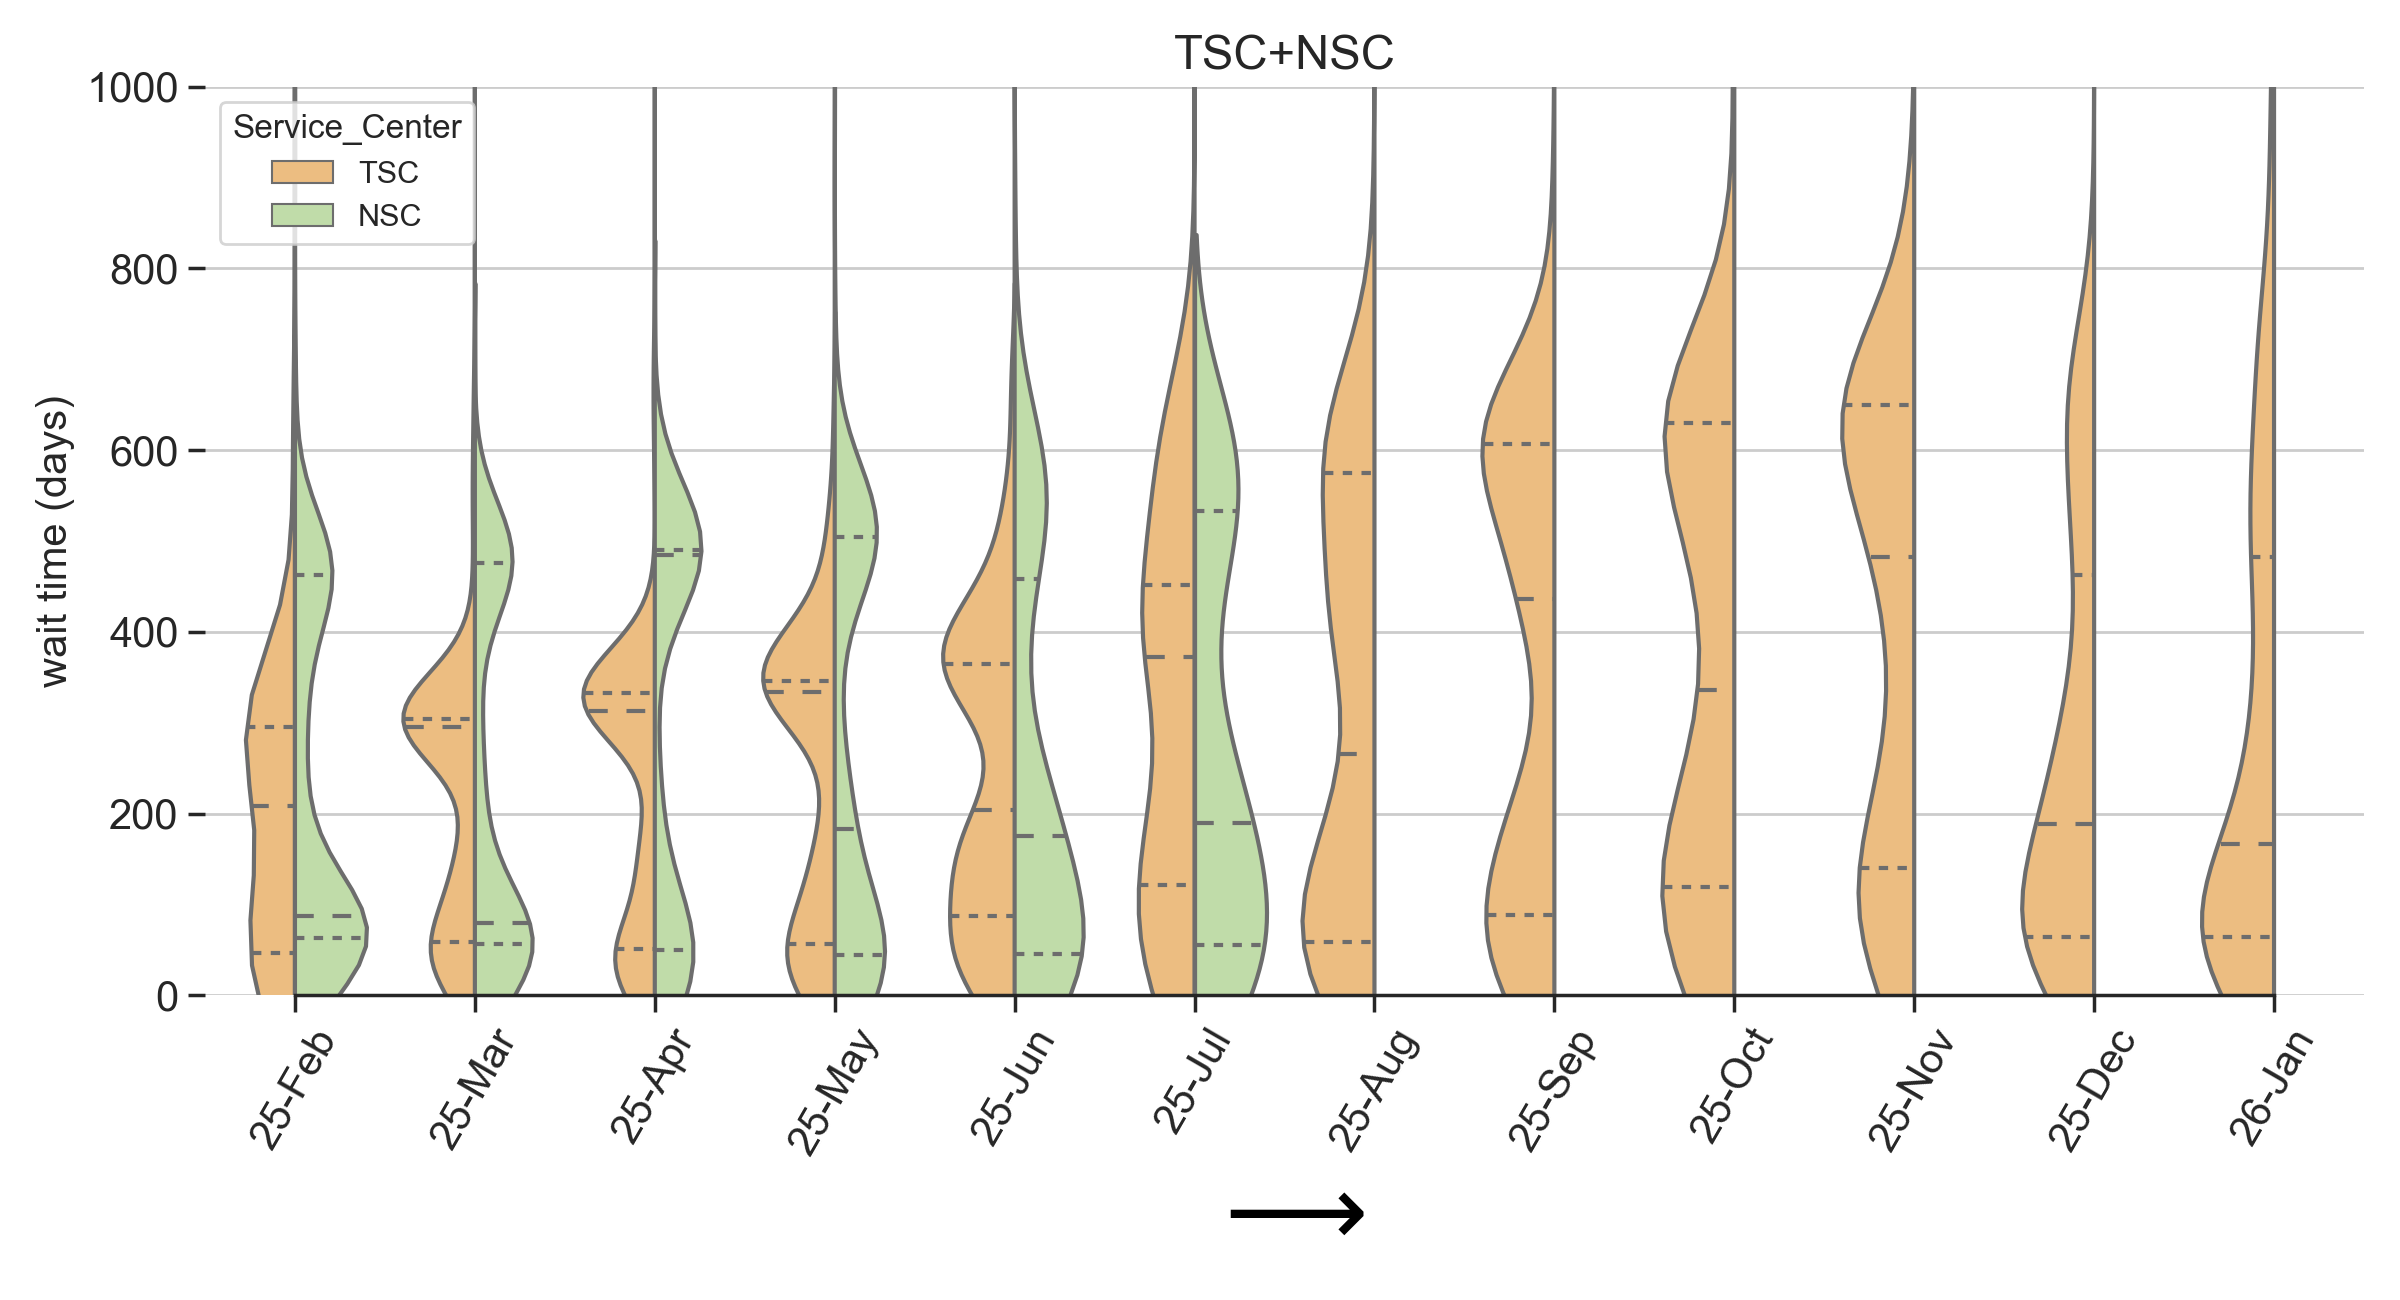
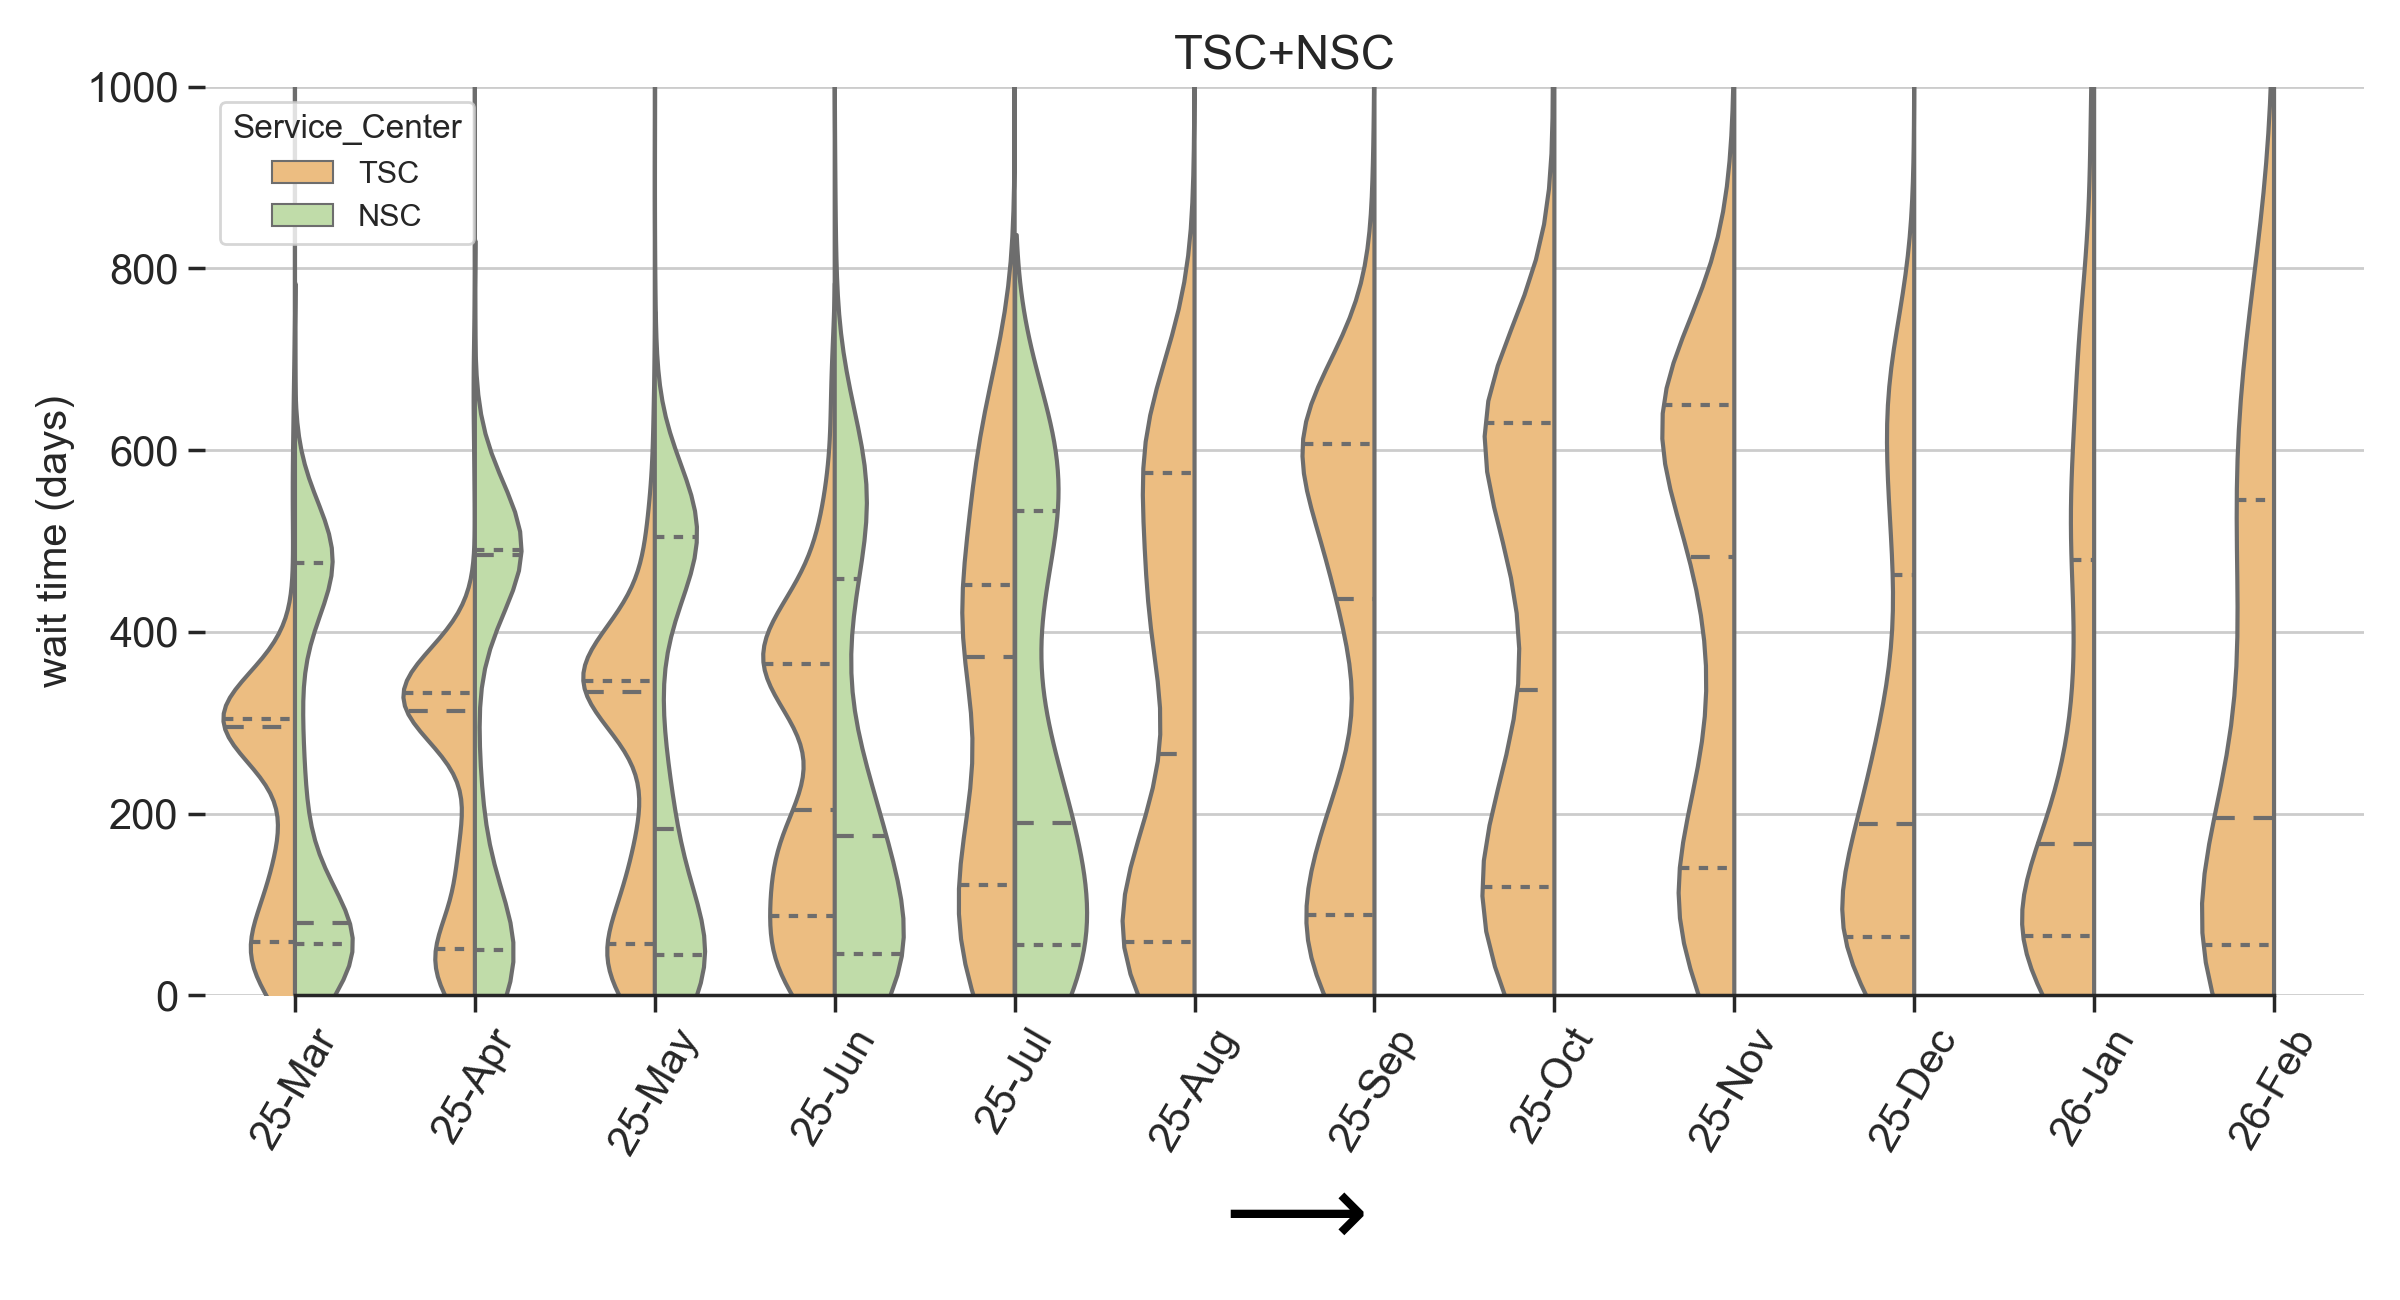
Mar- 02

diff --git a/README.md b/README.md
@@ -1,4 +1,4 @@
-## National Interest Waiver Wait Time, updated Feb-12-2026 
+## National Interest Waiver Wait Time, updated Mar-02-2026 
 * sec203(b)(2), Indiv w/Adv Deg or Exceptional Ability in National Interest are counted as NIW cases from now on. 
  
 USCIS Employment-based-2 NIW I-140 wait time before approval (data source: [Victoria Chen](https://www.wegreened.com/eb1_niw_approvals)). 
